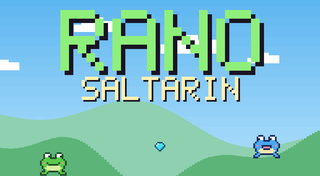
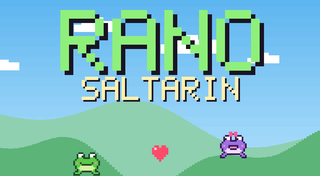
Rano: Camilo and Rina, two frogs in love (#2)
Player 1 is Camilo (green), player 2 is Rina (violet with a pink bow).
Names show over their heads and in the HUD, hearts float up when they
are close, and playing alone Rina waits for Camilo by each golden lotus.

Claude-Session: https://claude.ai/code/session_014dNMmRnt6cuD2WyDo6Tfvv

Changed region(s): [[0.125, 0.8523, 0.3125, 1.0], [0.6875, 0.7386, 0.875, 0.9091], [0.4688, 0.7955, 0.5312, 0.9091]]

diff --git a/rano/source/game.c b/rano/source/game.c
@@ -41,9 +41,6 @@
 uint32_t *screen;
 static uint32_t color;
 
-static void set_color(int r, int g, int b) {
-    color = ((uint32_t)r << 16) | ((uint32_t)g << 8) | (uint32_t)b;
-}
 static void set_rgb(uint32_t c) { color = c; }
 
 static void fill_rect(int x, int y, int w, int h) {
@@ -232,8 +229,21 @@ static const char *frog_jump[] = {
 
 static const PalEntry frog_pal[2][6] = {
     { {'G', 0x5cc94a}, {'D', 0x1f4a2a}, {'L', 0xd8f0a0}, {'W', 0xffffff}, {'K', 0x101018}, {'R', 0xff8fa0} },
-    { {'G', 0x4aa8f0}, {'D', 0x1a2c5a}, {'L', 0xf0e6b0}, {'W', 0xffffff}, {'K', 0x101018}, {'R', 0xff8fa0} },
+    { {'G', 0xa070e0}, {'D', 0x3a1a5a}, {'L', 0xf0dcff}, {'W', 0xffffff}, {'K', 0x101018}, {'R', 0xff8fc0} },
 };
+
+/* Player 1 is Camilo (green), player 2 is Rina (violet, with a pink bow).
+ * They are in love. */
+static const char *frog_name[2] = { "CAMILO", "RINA" };
+static const uint32_t frog_color[2] = { 0x8ef07a, 0xd0a8ff };
+
+static const char *bow_img[] = {
+    "PP.PP",
+    "PPKPP",
+    "PP.PP",
+};
+static const PalEntry bow_pal[] = { {'P', 0xff5aa0}, {'K', 0xc02a70} };
+
 
 /* Beetle, facing right. R shell, H highlight, K dark */
 static const char *beetle_a[] = {
@@ -317,6 +327,11 @@ static const char *gem_img[] = {
 };
 static const PalEntry gem_pal[] = { {'K', 0x0e4a6a}, {'W', 0xffffff}, {'C', 0x4ae0f0}, {'B', 0x2a9ac8} };
 
+static void draw_frog(int who, const char **img, int x, int y, int scale, int flip) {
+    draw_sprite(img, 14, x, y, scale, flip, frog_pal[who], 6);
+    if (who == 1) draw_sprite(bow_img, 3, x + 5 * scale + scale / 2, y - 2 * scale, scale, 0, bow_pal, 2);
+}
+
 /* ============================================================ world */
 
 typedef struct {
@@ -360,6 +375,21 @@ static int n_enemies;
 static Mover movers[MAX_MOVERS];
 static int n_movers;
 static Particle parts[MAX_PARTICLES];
+#define MAX_LOVE 24
+typedef struct { float x, y, life, wob; } Love;
+static Love loves[MAX_LOVE];
+static float love_t;
+
+static void spawn_love(float x, float y) {
+    for (int i = 0; i < MAX_LOVE; i++) {
+        if (loves[i].life > 0) continue;
+        loves[i].x = x + (rand() % 30) - 15;
+        loves[i].y = y;
+        loves[i].life = 1.4f;
+        loves[i].wob = (rand() % 628) / 100.0f;
+        return;
+    }
+}
 static Player players[MAX_PLAYERS];
 static float start_x, start_y, check_x, check_y;
 static int check_col = -1;
@@ -455,6 +485,7 @@ static void load_level(int idx) {
     gems_level = gems_level_total = 0;
     check_col = -1;
     memset(parts, 0, sizeof(parts));
+    memset(loves, 0, sizeof(loves));
     memset(spring_anim, 0, sizeof(spring_anim));
     for (int y = 0; y < ROWS; y++) {
         for (int x = 0; x < map_w; x++) {
@@ -518,7 +549,7 @@ static void kill_player(Player *p) {
     if (!p->alive) return;
     p->alive = 0;
     p->riding = NULL;
-    spawn_particles(p->x + PW / 2, p->y + PH / 2, 14, p == &players[0] ? 0x5cc94a : 0x4aa8f0, 380);
+    spawn_particles(p->x + PW / 2, p->y + PH / 2, 14, p == &players[0] ? 0x5cc94a : 0xa070e0, 380);
     lives--;
     int others = 0;
     for (int i = 0; i < MAX_PLAYERS; i++)
@@ -582,6 +613,7 @@ static void collect_tiles(Player *p) {
                 state = ST_CLEAR;
                 state_t = 0;
                 spawn_particles(cx, cy - 30, 30, 0xffd84a, 500);
+                for (int k = 0; k < 8; k++) spawn_love(cx + 40 + (k - 4) * 14, cy - 40 - k * 10);
             } else if (c == '^') {
                 /* spikes only hurt in the lower part of the tile */
                 if (p->y + PH > ty * TILE + 20) hurt_player(p, cx);
@@ -842,6 +874,29 @@ static void update_particles(float dt) {
     }
     for (int x = 0; x < MAX_W; x++)
         if (spring_anim[x] > 0) spring_anim[x] -= dt;
+    for (int i = 0; i < MAX_LOVE; i++) {
+        if (loves[i].life <= 0) continue;
+        loves[i].life -= dt;
+        loves[i].y -= 70 * dt;
+        loves[i].wob += dt * 4;
+    }
+
+    /* when Camilo and Rina are close together, little hearts float up */
+    love_t -= dt;
+    if (love_t <= 0 && (state == ST_PLAY || state == ST_CLEAR)) {
+        love_t = 0.5f;
+        Player *a = &players[0], *b = &players[1];
+        if (a->active && a->alive && b->active && b->alive &&
+            fabsf(a->x - b->x) < 110 && fabsf(a->y - b->y) < 80)
+            spawn_love((a->x + b->x) / 2 + PW / 2, fminf(a->y, b->y) - 20);
+        /* playing alone: Rina waits for Camilo next to each golden lotus */
+        if (!b->active) {
+            for (int y = 0; y < ROWS; y++)
+                for (int x = 0; x < map_w; x++)
+                    if (map[y][x] == 'G' && fabsf(x * TILE - cam_x - SCREEN_W / 2) < SCREEN_W)
+                        spawn_love(x * TILE + 90, y * TILE - 30);
+        }
+    }
 }
 
 static void try_join_p2(const Input in[MAX_PLAYERS]) {
@@ -1188,11 +1243,29 @@ static void draw_world(void) {
         if (!p->on_ground) img = frog_jump;
         else if (fabsf(p->vx) > 20 && fmodf(p->anim, 0.24f) < 0.12f) img = frog_walk;
         int x = (int)(p->x - cam_x) - 8, y = (int)p->y - 2;
-        draw_sprite(img, 14, x, y, 3, p->face < 0, frog_pal[i], 6);
-        if (players[1].active) { /* little marker so you know who is who */
-            set_rgb(i == 0 ? 0x5cc94a : 0x4aa8f0);
-            draw_text_raw(i == 0 ? "1" : "2", x + 18, y - 26, 2);
-        }
+        draw_frog(i, img, x, y, 3, p->face < 0);
+        if (players[1].active) /* names so you know who is who */
+            draw_text(frog_name[i], x + 24 - text_width(frog_name[i], 2) / 2, y - 34, 2, frog_color[i]);
+    }
+
+    /* playing alone: Rina is waiting by the golden lotus */
+    if (!players[1].active) {
+        int tx0 = fdiv(cam_x) - 3, tx1 = fdiv(cam_x + SCREEN_W) + 1;
+        for (int ty = 0; ty < ROWS; ty++)
+            for (int tx = tx0; tx <= tx1; tx++)
+                if (tile_at(tx, ty) == 'G' && tx >= 0 && tx < map_w) {
+                    int x = tx * TILE + 64 - (int)cam_x, y = ty * TILE + TILE - 42 - 2;
+                    int hop = state == ST_CLEAR ? (int)fabsf(sinf(clock_t_ * 8) * 30) : 0;
+                    draw_frog(1, hop ? frog_jump : frog_stand, x, y - hop, 3, 1);
+                    draw_text(frog_name[1], x + 24 - text_width(frog_name[1], 2) / 2, y - hop - 34, 2, frog_color[1]);
+                }
+    }
+
+    for (int i = 0; i < MAX_LOVE; i++) {
+        Love *l = &loves[i];
+        if (l->life <= 0) continue;
+        int sc = l->life > 0.3f ? 3 : 2;
+        draw_sprite(heart_img, 7, (int)(l->x - cam_x + sinf(l->wob) * 8), (int)l->y, sc, 0, heart_pal, 2);
     }
 
     for (int i = 0; i < MAX_PARTICLES; i++) {
@@ -1210,25 +1283,25 @@ static void draw_hud(void) {
         Player *p = &players[i];
         if (!p->active) continue;
         int y = 20 + i * 44;
-        draw_text(i == 0 ? "J1" : "J2", 24, y + 4, 4, i == 0 ? 0x8ef07a : 0x8ac8ff);
+        draw_text(frog_name[i], 24, y + 6, 3, frog_color[i]);
         for (int h = 0; h < MAX_HEARTS; h++) {
             int filled = p->alive && h < p->hearts;
-            draw_sprite(heart_img, 7, 84 + h * 36, y, 4, 0, filled ? heart_pal : heart_empty_pal, 2);
+            draw_sprite(heart_img, 7, 144 + h * 36, y, 4, 0, filled ? heart_pal : heart_empty_pal, 2);
         }
     }
-    draw_sprite(gem_img, 7, 230, 22, 4, 0, gem_pal, 4);
+    draw_sprite(gem_img, 7, 290, 22, 4, 0, gem_pal, 4);
     snprintf(buf, sizeof(buf), "x%d", gems);
-    draw_text(buf, 270, 26, 4, 0xffffff);
+    draw_text(buf, 330, 26, 4, 0xffffff);
 
-    draw_sprite(frog_stand, 14, 380, 16, 2, 0, frog_pal[0], 6);
+    draw_frog(0, frog_stand, 440, 16, 2, 0);
     snprintf(buf, sizeof(buf), "x%d", lives);
-    draw_text(buf, 418, 26, 4, 0xffffff);
+    draw_text(buf, 478, 26, 4, 0xffffff);
 
     const char *name = level_defs[level_index].name;
     draw_text(name, SCREEN_W - 24 - text_width(name, 4), 26, 4, 0xfff0b0);
 
     if (!players[1].active && fmodf(clock_t_, 4.0f) < 2.5f)
-        draw_text("J2: PULSA X PARA UNIRTE", SCREEN_W - 24 - text_width("J2: PULSA X PARA UNIRTE", 3), 70, 3, 0xd0d8ff);
+        draw_text("RINA: PULSA X EN EL CONTROL 2", SCREEN_W - 24 - text_width("RINA: PULSA X EN EL CONTROL 2", 3), 70, 3, 0xd0a8ff);
 }
 
 static void draw_title(void) {
@@ -1248,18 +1321,20 @@ static void draw_title(void) {
     }
 
     int hop = (int)fabsf(sinf(clock_t_ * 3.0f) * 70);
-    draw_sprite(hop > 10 ? frog_jump : frog_stand, 14, 280, 12 * TILE - 70 - hop, 5, 0, frog_pal[0], 6);
-    if (players[1].active) {
-        int hop2 = (int)fabsf(sinf(clock_t_ * 3.0f + 1.2f) * 70);
-        draw_sprite(hop2 > 10 ? frog_jump : frog_stand, 14, 920, 12 * TILE - 70 - hop2, 5, 1, frog_pal[1], 6);
-    }
-    draw_sprite(gem_img, 7, 640 - 16, 470 + (int)(sinf(clock_t_ * 4) * 6), 4, 0, gem_pal, 4);
+    draw_frog(0, hop > 10 ? frog_jump : frog_stand, 380, 12 * TILE - 70 - hop, 5, 0);
+    draw_text(frog_name[0], 420 - text_width(frog_name[0], 4) / 2, 12 * TILE + 20, 4, frog_color[0]);
+    int hop2 = players[1].active ? (int)fabsf(sinf(clock_t_ * 3.0f + 1.2f) * 70) : 0;
+    draw_frog(1, hop2 > 10 ? frog_jump : frog_stand, 820, 12 * TILE - 70 - hop2, 5, 1);
+    draw_text(frog_name[1], 860 - text_width(frog_name[1], 4) / 2, 12 * TILE + 20, 4, frog_color[1]);
+    /* a beating heart between the two */
+    int beat = fmodf(clock_t_, 0.8f) < 0.15f ? 8 : 7;
+    draw_sprite(heart_img, 7, 640 - 7 * beat / 2, 500 - 7 * beat / 2, beat, 0, heart_pal, 2);
 
     draw_text_centered("RANO", 70, 26, 0x8ef07a);
     draw_text_centered("SALTARIN", 270, 10, 0xfff0b0);
     if (fmodf(clock_t_, 1.0f) < 0.65f) draw_text_centered("PULSA X PARA JUGAR", 380, 6, 0xffffff);
-    draw_text_centered(players[1].active ? "JUGADOR 2 LISTO!" : "JUGADOR 2: PULSA X EN EL SEGUNDO CONTROL",
-                       640, 3, players[1].active ? 0x8ac8ff : 0xe0e8ff);
+    draw_text_centered(players[1].active ? "RINA ESTA LISTA!" : "PARA JUGAR CON RINA: PULSA X EN EL SEGUNDO CONTROL",
+                       640, 3, players[1].active ? 0xd0a8ff : 0xe0e8ff);
     draw_text_centered("X SALTAR    CUADRADO CORRER    START PAUSA", 680, 3, 0xe0e8ff);
 }
 
@@ -1281,10 +1356,11 @@ void game_render(void) {
         theme = 2;
         draw_background(&themes[2]);
         draw_text_centered("HAS GANADO!", 140, 14, 0xffd84a);
-        draw_sprite(frog_jump, 14, 560, 300 + (int)(sinf(clock_t_ * 5) * 20), 5, 0, frog_pal[0], 6);
-        if (players[1].active)
-            draw_sprite(frog_jump, 14, 660, 300 + (int)(sinf(clock_t_ * 5 + 1) * 20), 5, 1, frog_pal[1], 6);
-        draw_text_centered("RANO ENCONTRO TODOS LOS LOTOS DORADOS", 450, 4, 0xffffff);
+        draw_frog(0, frog_jump, 470, 300 + (int)(sinf(clock_t_ * 5) * 20), 5, 0);
+        draw_frog(1, frog_jump, 730, 300 + (int)(sinf(clock_t_ * 5 + 1) * 20), 5, 1);
+        int beat = fmodf(clock_t_, 0.8f) < 0.15f ? 9 : 8;
+        draw_sprite(heart_img, 7, 640 - 7 * beat / 2, 330 - 7 * beat / 2, beat, 0, heart_pal, 2);
+        draw_text_centered("CAMILO Y RINA, JUNTOS PARA SIEMPRE", 450, 4, 0xffffff);
         snprintf(buf, sizeof(buf), "GEMAS: %d    VIDAS: %d", gems, lives);
         draw_text_centered(buf, 520, 5, 0x9af4ff);
         if (state_t > 1.5f && fmodf(clock_t_, 1.0f) < 0.65f) draw_text_centered("PULSA X", 620, 5, 0xffffff);

diff --git a/README.md b/README.md
@@ -12,7 +12,7 @@ Every push to `main` builds all games on GitHub Actions. The newest `.pkg` files
 ## Games
 - **pong/** — Pong. Left stick or D-pad moves, X serves, START pauses. A second controller can press X to take the right paddle.
 
-- **rano/** — Rano Saltarin, an original platformer about a little frog. 3 levels (La Charca, La Cueva, Las Nubes), gems, beetles, wasps, springs, moving ledges and lantern checkpoints. Left stick or D-pad moves, X jumps (hold for higher), Square runs, START pauses. Two players can play together: controller 2 presses X to join, lives are shared. Levels are made in `rano/tools/make_levels.py`, which writes `rano/source/levels.h`.
+- **rano/** — Rano Saltarin, an original platformer about two frogs in love: Camilo (green, player 1) and Rina (violet with a pink bow, player 2). 3 levels (La Charca, La Cueva, Las Nubes), gems, beetles, wasps, springs, moving ledges and lantern checkpoints. Left stick or D-pad moves, X jumps (hold for higher), Square runs, START pauses. Two players can play together: controller 2 presses X to join as Rina, lives are shared, and hearts float up when the two are close. Playing alone, Rina waits for Camilo by each golden lotus. Levels are made in `rano/tools/make_levels.py`, which writes `rano/source/levels.h`.
 
 ## Adding a game
 Make a new folder (copy `pong/` as a template). Each folder with a `Makefile` is built automatically; the `.pkg` is named after the folder. Give each game a unique 9-character `APPID`.
